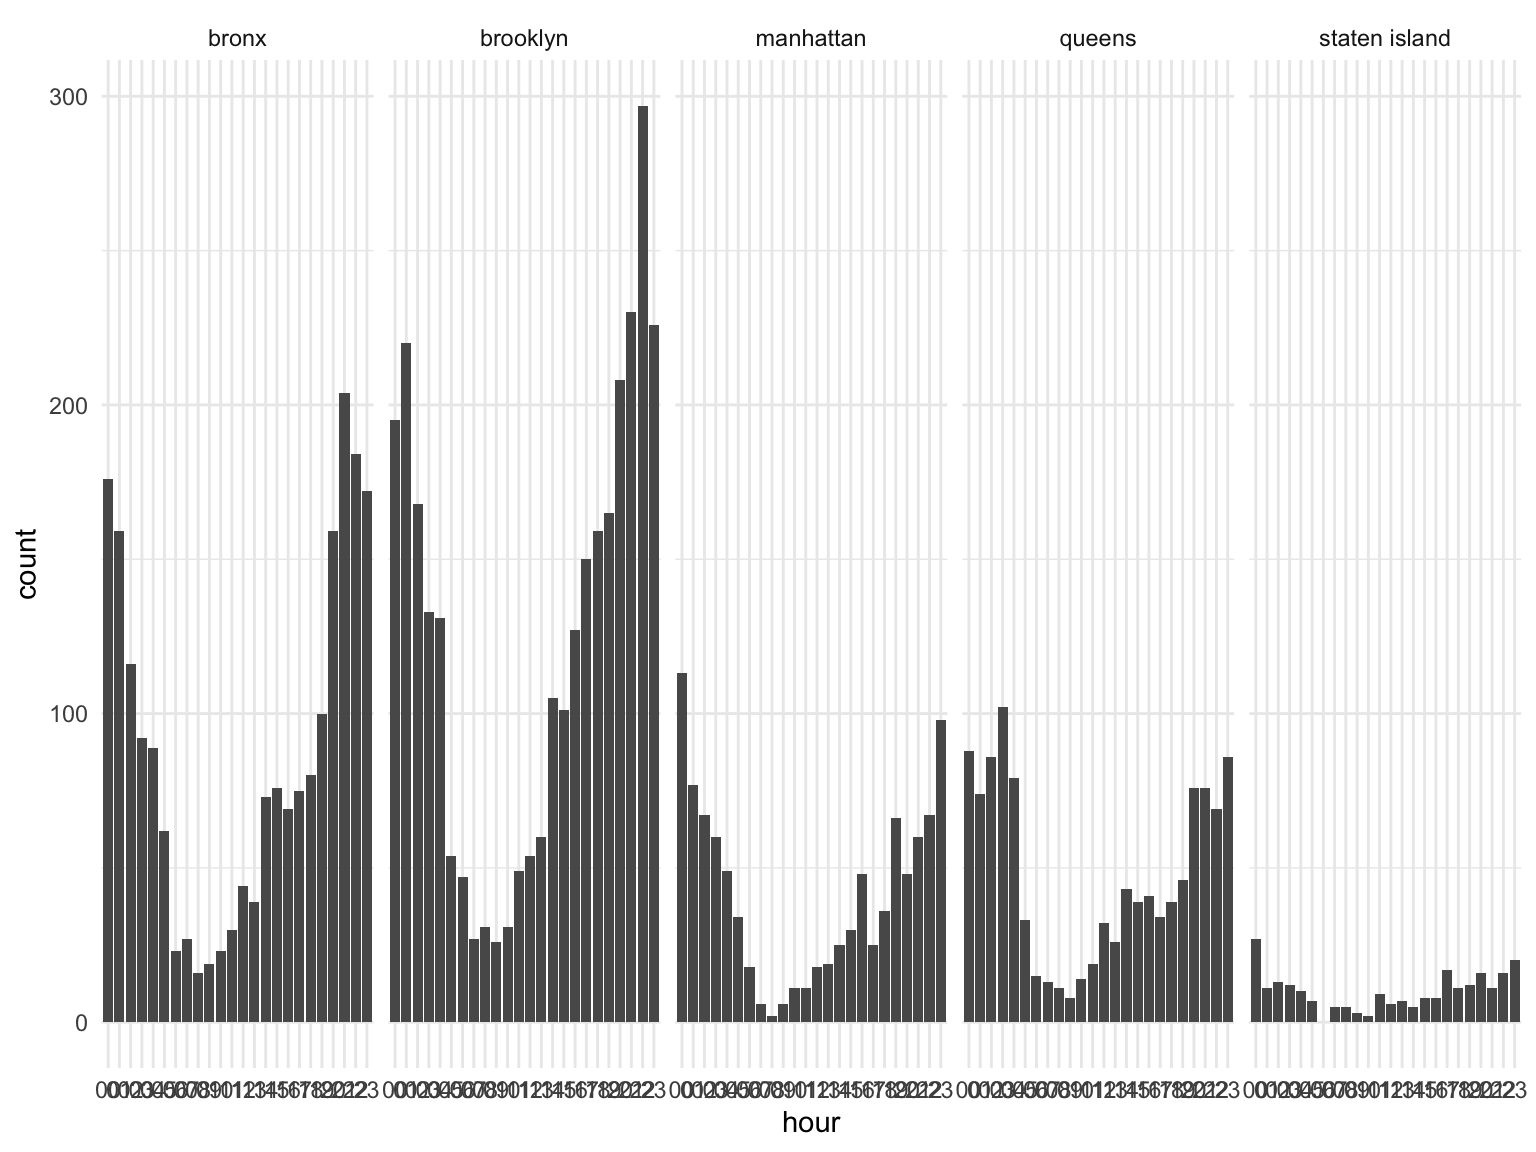
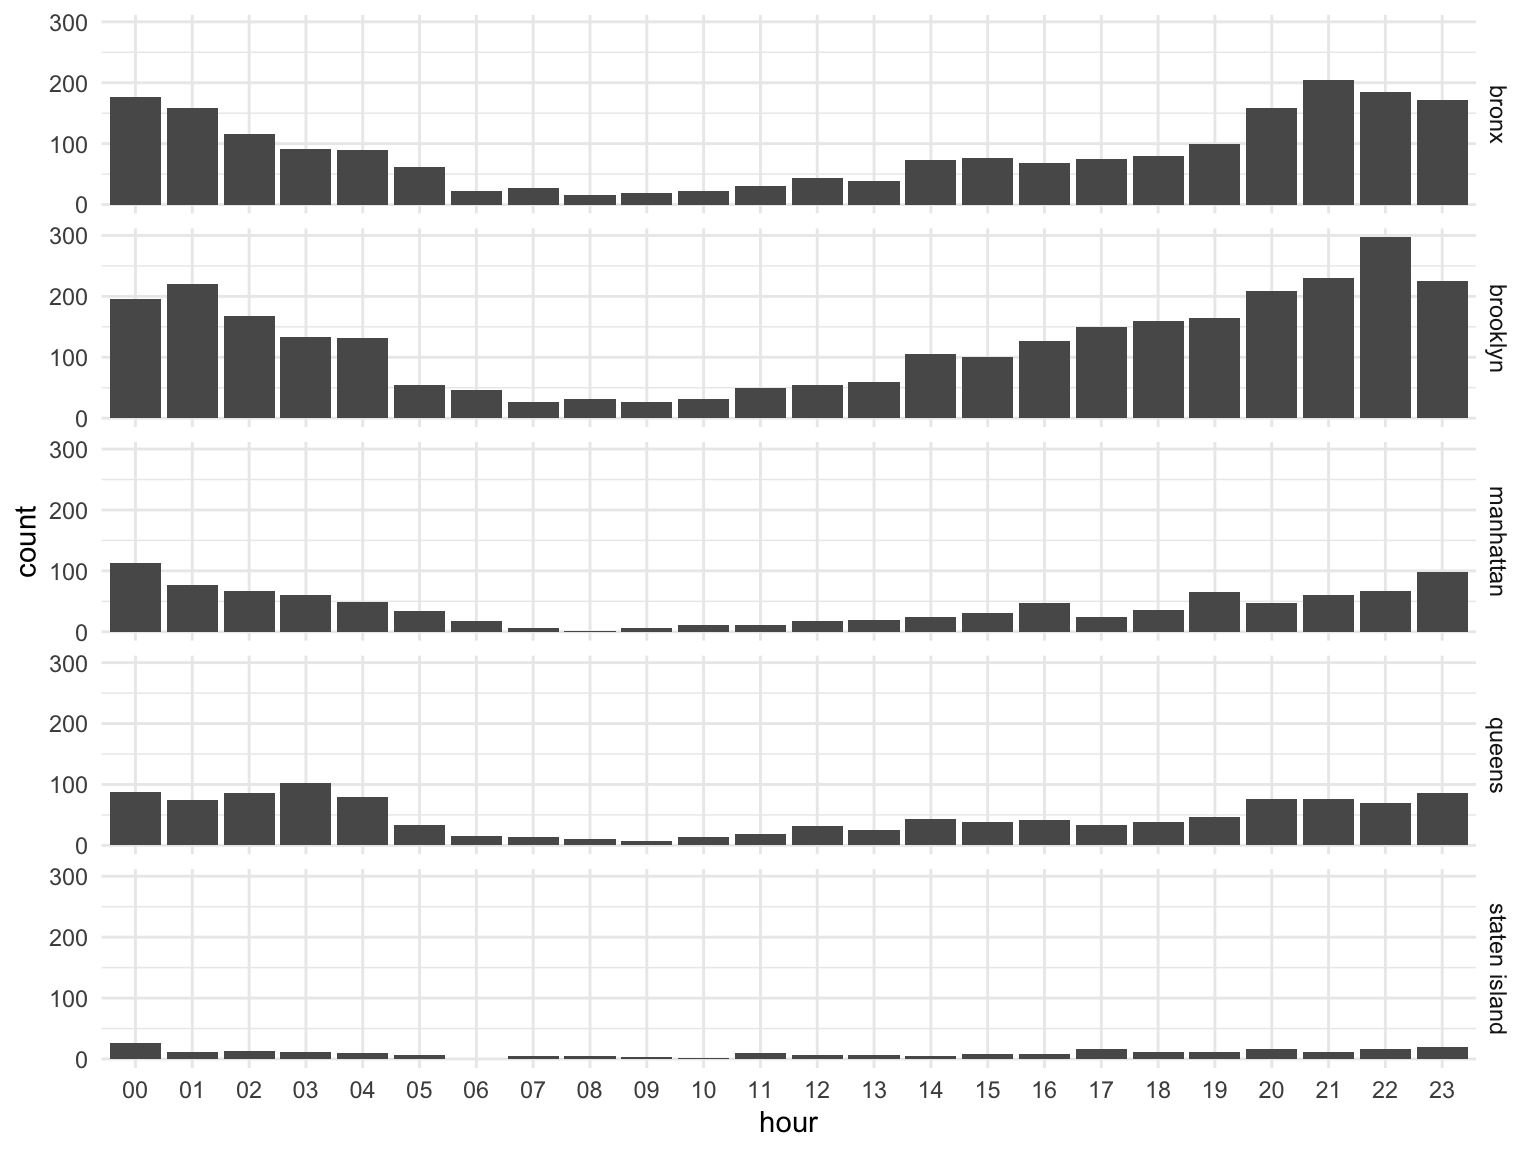
made some changes of plotting in #death vs times by boro

diff --git a/analysis.html b/analysis.html
@@ -479,7 +479,7 @@ boro_plot</code></pre>
   mutate(n = n()) %&gt;% 
   ggplot(aes(x = hour, group = n)) + 
   geom_bar(position = &quot;dodge&quot;) +
-  facet_grid(~boro)
+  facet_grid(rows = vars(boro))
   
 incident_by_hour</code></pre>
 <p><img src="analysis_files/figure-html/unnamed-chunk-9-1.png" width="90%" /> ##2015-2020 total death by jurisdiction_code</p>
